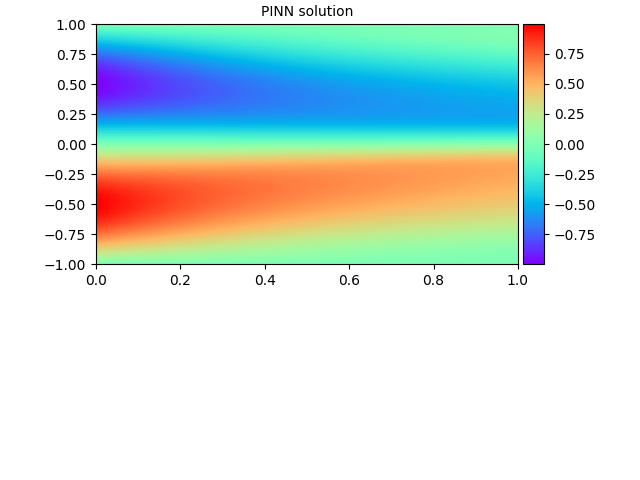
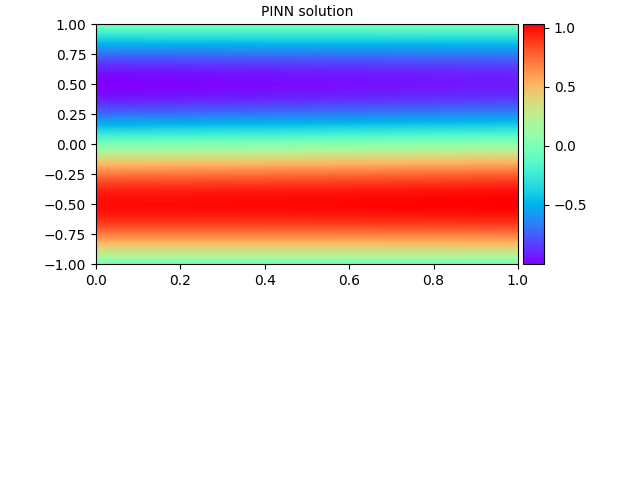
Adaptation to PINNs - dataloader needs to be fixed

diff --git a/src/trainers/UnconstrainedRegressionTrainer.py b/src/trainers/UnconstrainedRegressionTrainer.py
@@ -65,7 +65,7 @@ class UnconstrainedRegressionTrainer(object):
         elif(optimizer_type == PrecLBFGS):
             optimizer = optimizer_type(net.parameters())
         else:
-            optimizer = optimizer_type(model= net, lr=args.lr_global, subdomain_optimizer=optim.SGD, subdomain_optimizer_defaults={'lr': args.lr_global}, global_optimizer=TR, global_optimizer_defaults={'lr': args.lr_global}, max_subdomain_iter=5, dogleg=True, APTS_in_data_sync_strategy='average', step_strategy='mean')
+            optimizer = optimizer_type(model= net, lr=args.lr_global, subdomain_optimizer=optim.SGD, subdomain_optimizer_defaults={'lr': args.lr_global}, global_optimizer=optim.SGD, global_optimizer_defaults={'lr': args.lr_global}, max_subdomain_iter=1, dogleg=True, APTS_in_data_sync_strategy='average', step_strategy='mean')
 
         epoch = 0
         self.best_test_loss = 9e9
@@ -116,9 +116,9 @@ class UnconstrainedRegressionTrainer(object):
                 print("converged max_epochs")
             elif(np.isfinite(pde_loss) == False or np.isfinite(train_loss) == False or np.isfinite(test_loss) == False):
                 converged = True
-            elif(train_loss < self.config["loss_train_tol"] or test_loss < self.config["loss_test_tol"]):
-                print("converged small loss")
-                converged = True
+            # elif(train_loss < self.config["loss_train_tol"] or test_loss < self.config["loss_test_tol"]):
+            #     print("converged small loss")
+            #     converged = True
 
 
         num_loss_evals = 0
@@ -166,10 +166,8 @@ class UnconstrainedRegressionTrainer(object):
                 inputs = coordinates[0]
                 if self.use_cuda:
                     inputs = inputs.cuda()     
-                try:
-                    inputs.requires_grad = True
-                except:
-                    print('asd')
+                inputs.requires_grad = True
+                inputs = inputs.unsqueeze(0)
 
 
             def closure(**kwargs):
@@ -223,7 +221,7 @@ class UnconstrainedRegressionTrainer(object):
                     targets   = targets.cuda()
 
             else:
-                coordinates_sol = coordinates[0]
+                coordinates_sol = coordinates[0].unsqueeze(0)
 
                 coordinates = coordinates_sol[:, 0:-1]
                 exact_sol   = coordinates_sol[:, -1]

diff --git a/src/optimizers/APTS.py b/src/optimizers/APTS.py
@@ -158,7 +158,8 @@ class APTS(torch.optim.Optimizer):
         self.timings['precond'] += time.time() - tic
         with torch.no_grad():
             tic = time.time()
-            new_loss = closure(compute_grad=False, zero_grad=True)
+        new_loss = closure(compute_grad=False, zero_grad=True)
+        with torch.no_grad():
             self.timings['closure_2'] += time.time() - tic
             tic = time.time()
             step = self.model.parameters(clone=False) - initial_parameters
@@ -167,8 +168,9 @@ class APTS(torch.optim.Optimizer):
             w = 0; c = 0
             self.timings['step_comp'] += time.time() - tic
             tic = time.time()
-            if self.dogleg:
-                while new_loss > initial_loss and c<5: 
+        if self.dogleg:
+            while new_loss > initial_loss and c<5: 
+                with torch.no_grad():
                     c += 1
                     # Decrease lr to decrease size of step ...
                     lr = lr/2
@@ -181,14 +183,15 @@ class APTS(torch.optim.Optimizer):
                     for i,p in enumerate(self.model.parameters()):
                         p.copy_(initial_parameters.tensor[i] + step2.tensor[i])
                     # Compute new global loss
-                    new_loss = closure(compute_grad=False, zero_grad=True)
-                    # Empty cache to avoid memory problems
-                    torch.cuda.empty_cache()
-            else:
+                new_loss = closure(compute_grad=False, zero_grad=True)
+                # Empty cache to avoid memory problems
+                torch.cuda.empty_cache()
+        else:
+            with torch.no_grad():
                 # Update the model with the new params
                 for i,p in enumerate(self.model.parameters()):
                     p.copy_(initial_parameters.tensor[i] + step.tensor[i])
-            self.timings['dogleg'] += time.time() - tic
+                self.timings['dogleg'] += time.time() - tic
 
         # Do global TR step
         tic = time.time()
@@ -197,5 +200,6 @@ class APTS(torch.optim.Optimizer):
          
         # Update the learning rate
         self.lr = self.global_optimizer.lr
+        # self.lr = self.global_optimizer.param_groups[0]['lr']
         self.update_param_group()
         return new_loss

diff --git a/tests/test_burgers_APTS.py b/tests/test_burgers_APTS.py
@@ -46,7 +46,7 @@ def parse_cmd_args(args):
     parser.add_argument("--trial", type=int, default=1, required=False)
     parser.add_argument("--epochs", type=int, default=10, required=False)
     parser.add_argument("--is_sharded", type=bool, default=False, required=False)
-    parser.add_argument("--data_chunks_amount", type=int, default=10, required=False)
+    parser.add_argument("--data_chunks_amount", type=int, default=1, required=False)
     return parser.parse_args(args)
 
 
@@ -60,20 +60,32 @@ def main(rank=None, cmd_args=None, master_addr=None, master_port=None, world_siz
     parsed_cmd_args = parse_cmd_args(sys.argv[1:])
 
     args = argparse.Namespace()
-    args.seed = 0
-    args.num_points_x = 25
-    args.num_points_y = 50
-    args.num_ref = 4
-    args.num_levels = 1
+    args.seed = 123
+    args.num_points_x = 100
+    args.num_points_y = 100
+    args.num_points_z = 100
+    args.num_ref = 1
     args.width = 20
-    args.hiddenlayers_coarse = 6
+    args.num_subdomains = 2
+    args.hiddenlayers_coarse = 3
     args.ada_net = False
-    args.T = 1
+    args.T = 2.0
     args.history = 1
     args.use_adaptive_activation = False
-    args.opt_type = 0
-    args.lr_global = 1e-1
+    args.lr_global = 1e-3
+    args.lr_local = 1e-3
     args.max_epochs = 1000
+    args.momentum = 0.9
+    args.num_batches = 1
+    args.num_coarse_steps = 5
+    args.num_levels = 3
+    args.num_local_steps = 10
+    args.overlap_width = 0
+    args.use_SPQN = True
+    args.use_adaptive_activation = True
+    args.use_coarse = True
+    args.use_layerwise_lr = True 
+    args.use_stochastic = False
     print(" \n \n args ", args, " \n \n ")
     device = torch.device('cuda') if torch.cuda.is_available() else torch.device('cpu')
 
@@ -132,7 +144,7 @@ def main(rank=None, cmd_args=None, master_addr=None, master_port=None, world_siz
     train_loss = 0
     converged = False
 
-    args.opt_type = 4
+    args.opt_type = 1
     if (args.opt_type == 0):
         algo = GDLinesearch
     elif (args.opt_type == 1):

diff --git a/src/networks.py b/src/networks.py
@@ -5,7 +5,11 @@ def create_feedforward_stage_list(num_stages, input_size=2, out_features=1, hidd
     stage_list = []
     if num_stages == 1:
         layers = [nn.Linear, nn.Tanh, nn.Linear, nn.Tanh, nn.Linear]
-        layer_params = [{'in_features': input_size, 'out_features': hidden_size}, {}, {'in_features': hidden_size, 'out_features': hidden_size}, {}, {'in_features': hidden_size, 'out_features': out_features}]
+        layer_params = [{'in_features': input_size, 'out_features': hidden_size}, 
+                        {}, 
+                        {'in_features': hidden_size, 'out_features': hidden_size}, 
+                        {}, 
+                        {'in_features': hidden_size, 'out_features': out_features}]
         stage_list.append((layers, layer_params))
         return stage_list
     else:

diff --git a/src/PDEs/PDEBase.py b/src/PDEs/PDEBase.py
@@ -70,8 +70,10 @@ class PDEBase(object):
 
 
     def criterion(self, net, coords):
-
         net_out = net(coords)
+        # print(coords, " coords ", net_out, " net_out ")
+        if type(net_out) is list and len(net_out) == 1:
+            net_out = net_out[0]
 
         if(self.bc_exact is not None):
             # print("yes  here... ")

diff --git a/src/PDEs/Burgers.py b/src/PDEs/Burgers.py
@@ -66,6 +66,8 @@ class Burgers(PDEBase):
             x = x.cuda()                  
 
         u_nn_test = net(x)    
+        if type(u_nn_test) is list and len(u_nn_test) == 1:
+            u_nn_test = u_nn_test[0]
         if(self.bc_exact is not None):
             u_nn_test = self.bc_exact.apply_bc(u_nn_test, x)
 
